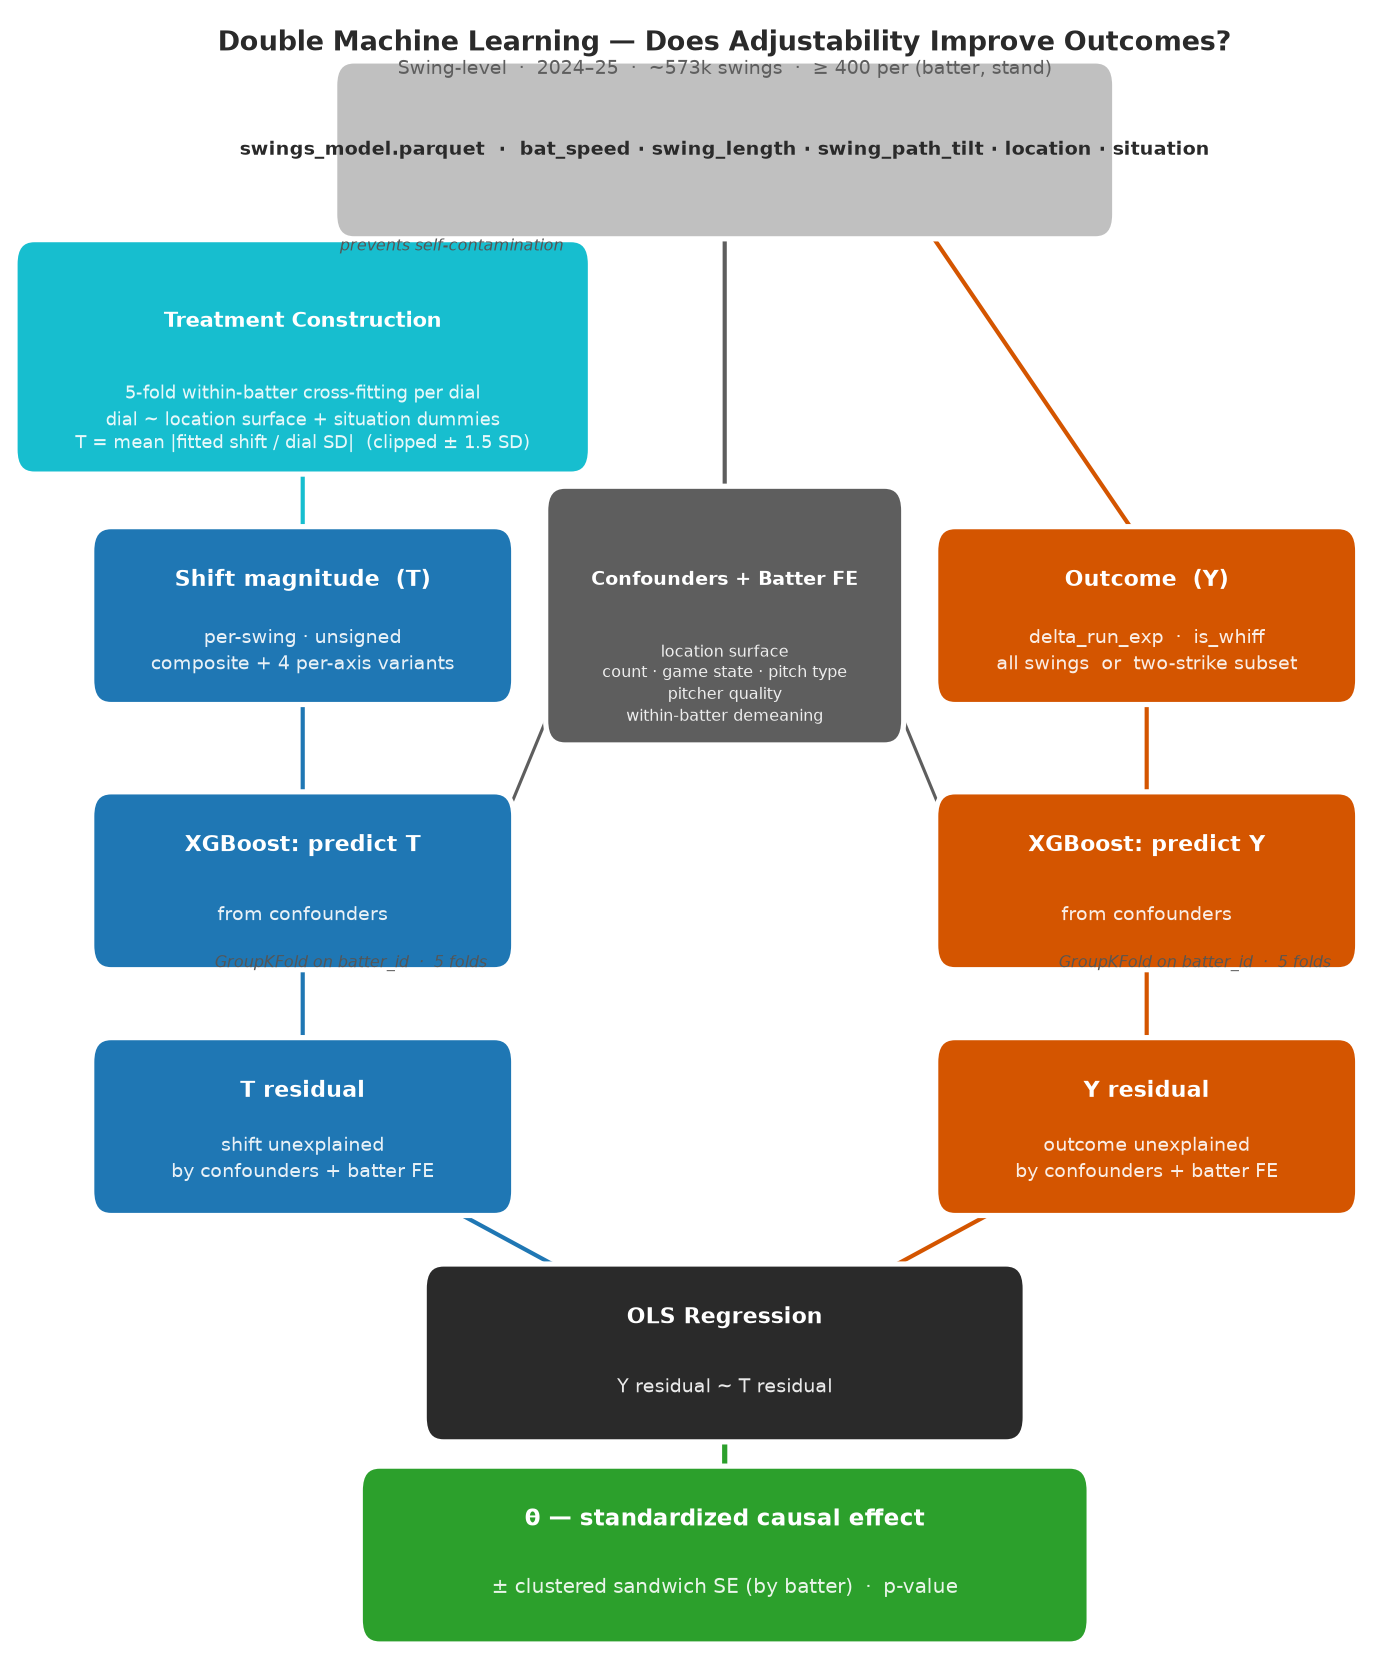
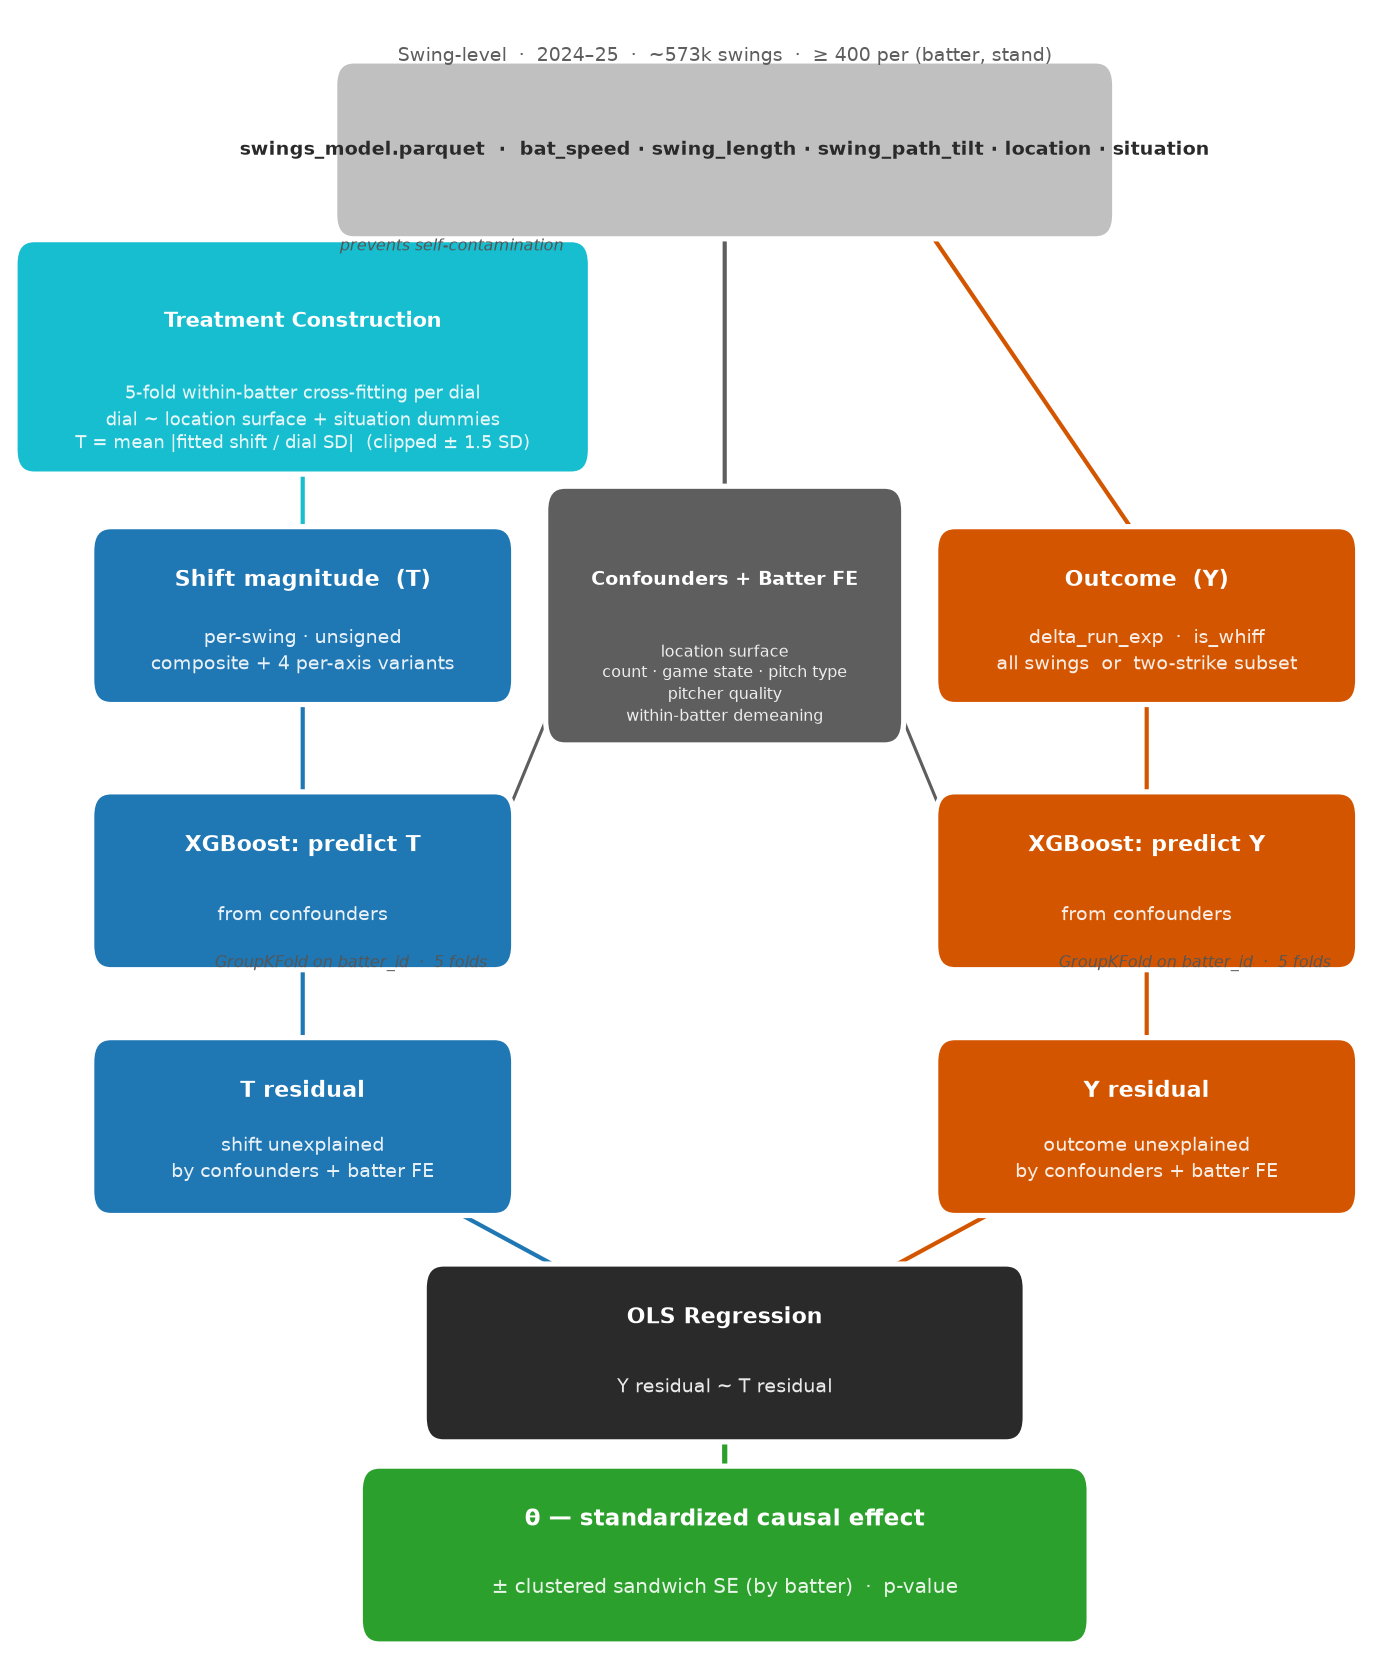
fix(dml_flowchart): remove main title, keep only metadata subtitle line

Changed region(s): [[0.4677, 0.0, 0.9043, 0.0615], [0.1559, 0.0, 0.4365, 0.0615]]

diff --git a/src/dml_flowchart.py b/src/dml_flowchart.py
@@ -82,12 +82,7 @@ YOLS = 0.172
 YOUT = 0.047
 
 # ── Title ────────────────────────────────────────────────────────────────────
-ax.text(XC, 0.982,
-        "Double Machine Learning — Does Adjustability Improve Outcomes?",
-        ha="center", va="center", fontsize=13, fontweight="bold",
-        color=C_DARK, transform=ax.transAxes)
-
-ax.text(XC, 0.966,
+ax.text(XC, 0.974,
         "Swing-level  ·  2024–25  ·  ~573k swings  ·  ≥ 400 per (batter, stand)",
         ha="center", va="center", fontsize=9, color=C_GRAY,
         transform=ax.transAxes)
